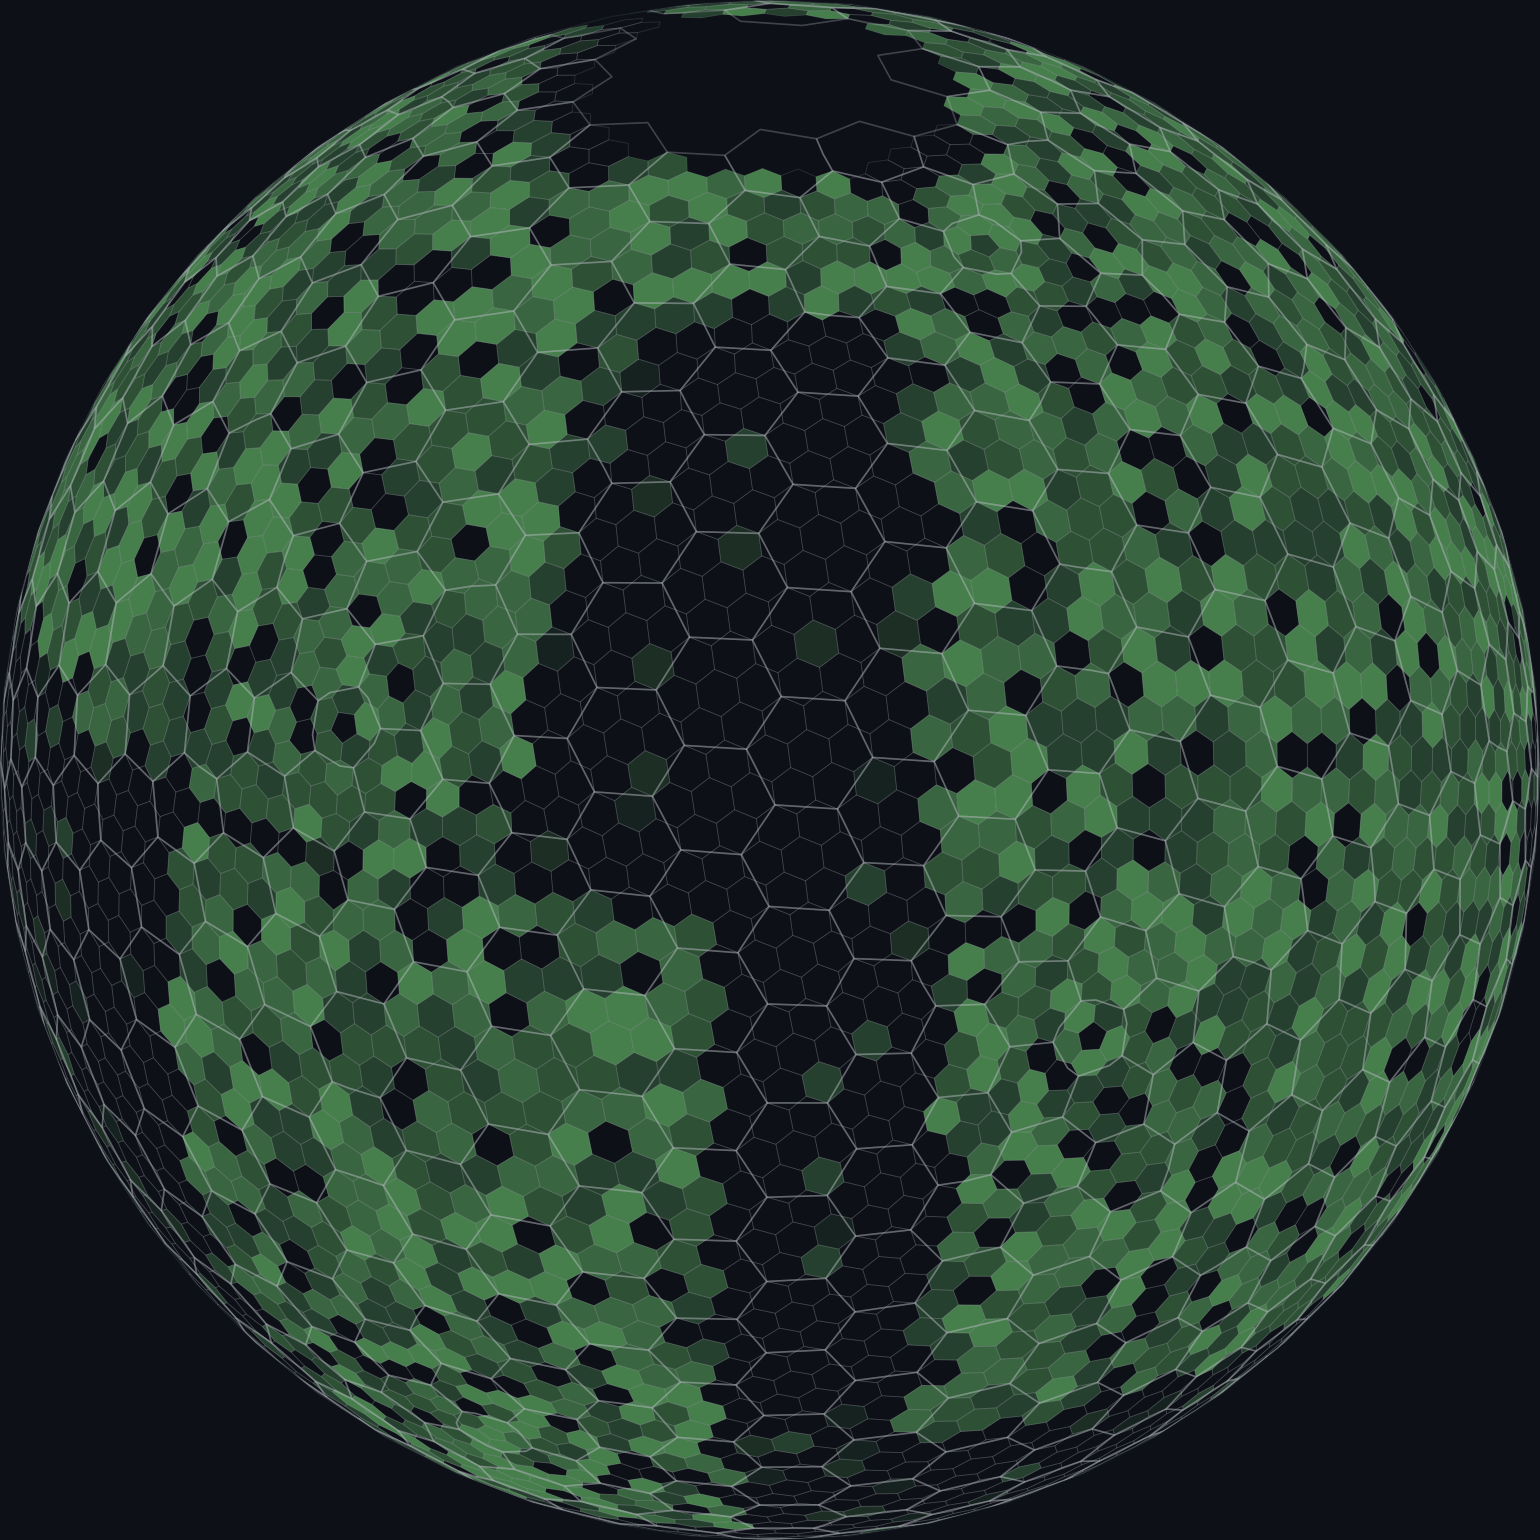
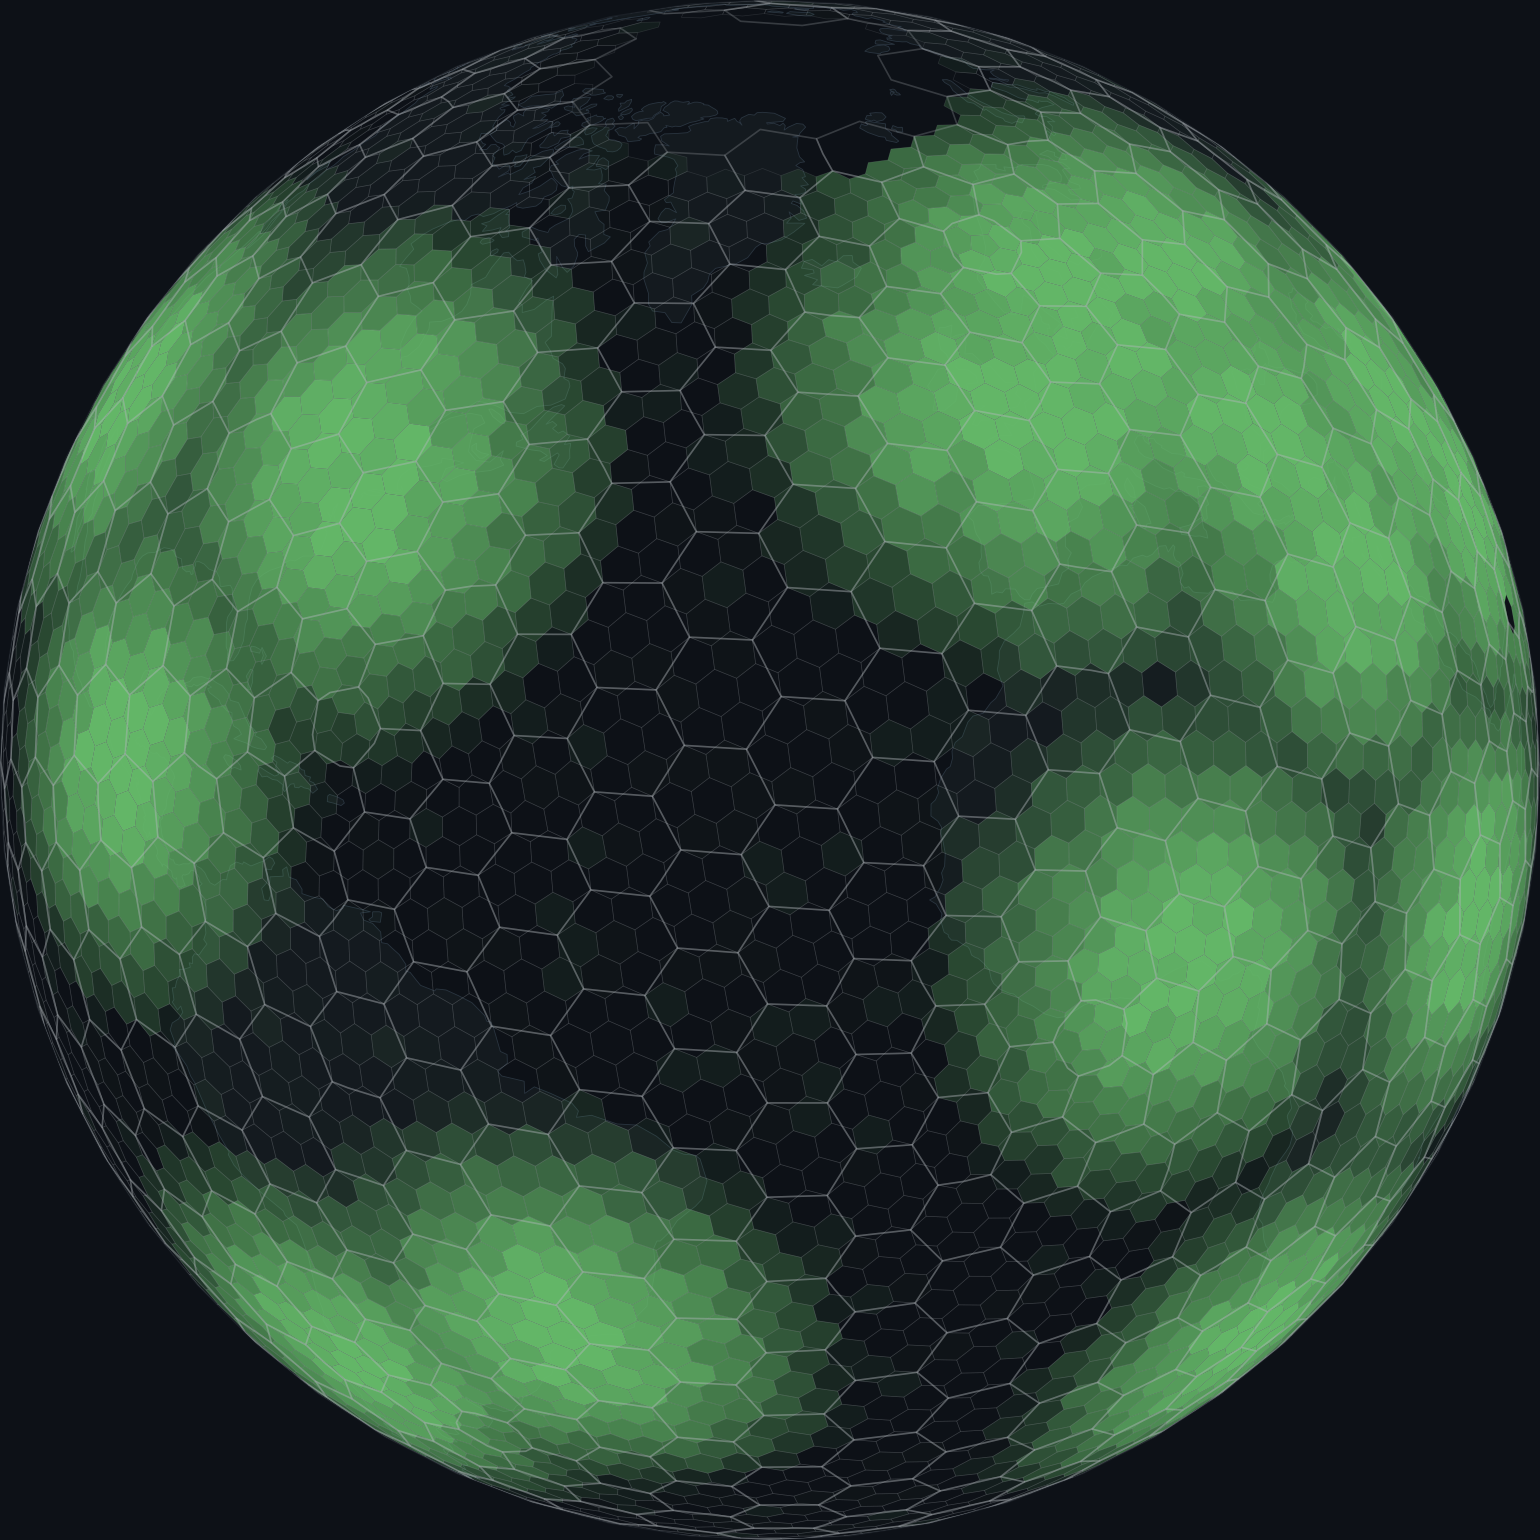
H3 globe: continental map, population-center radial spread
- Cartopy land/coastline base map beneath hex grid
- Green fill opacity 0-1 based on haversine distance to 28 major
  population centers (sharp 2500km falloff)
- Silver/gray hex borders at res 1 and res 2
- Mid-takeover look: bright hotspots at cities, dark ocean gaps

diff --git a/scripts/h3_globe.py b/scripts/h3_globe.py
@@ -1,83 +1,117 @@
 #!/usr/bin/env python3
 """Generate an H3 hexagonal globe visualization — mid-takeover look.
 
-Silver/gray hex borders across the whole globe, with randomly filled
-green hexagons at varying opacity (land cells more likely, some ocean
-cells lit for a spreading-takeover effect). Uses matplotlib + cartopy
-for proper polygon fills on an orthographic projection.
+Continental map underneath, silver/gray hex borders, green fills radiating
+outward from major population centers (opacity 0-1). Uses matplotlib + cartopy.
 """
 
 import h3
 import numpy as np
 import matplotlib.pyplot as plt
-import matplotlib.patches as mpatches
 from matplotlib.collections import PolyCollection
 import cartopy.crs as ccrs
+import cartopy.feature as cfeature
 from pathlib import Path
-import random
 
 BG_COLOR = '#0d1117'
+LAND_COLOR = '#141a1f'
+OCEAN_COLOR = '#0d1117'
 OUTPUT_DIR = Path(__file__).parent.parent / 'book' / 'assets' / 'figures'
 
-random.seed(42)
 np.random.seed(42)
 
 PROJ = ccrs.Orthographic(central_longitude=-30, central_latitude=25)
 SRC = ccrs.PlateCarree()
 
+# Major population centers (lat, lon) — takeover radiates from these
+POP_CENTERS = [
+    (40.7, -74.0),    # New York
+    (51.5, -0.1),     # London
+    (48.9, 2.3),      # Paris
+    (55.8, 37.6),     # Moscow
+    (35.7, 139.7),    # Tokyo
+    (39.9, 116.4),    # Beijing
+    (31.2, 121.5),    # Shanghai
+    (19.1, 72.9),     # Mumbai
+    (28.6, 77.2),     # Delhi
+    (-23.6, -46.6),   # São Paulo
+    (6.5, 3.4),       # Lagos
+    (30.0, 31.2),     # Cairo
+    (-33.9, 18.4),    # Cape Town
+    (34.1, -118.2),   # Los Angeles
+    (-33.4, -70.7),   # Santiago
+    (1.3, 103.8),     # Singapore
+    (37.6, 127.0),    # Seoul
+    (52.5, 13.4),     # Berlin
+    (41.0, 28.9),     # Istanbul
+    (13.8, 100.5),    # Bangkok
+    (-6.2, 106.8),    # Jakarta
+    (35.7, 51.4),     # Tehran
+    (14.6, -90.5),    # Guatemala City
+    (25.3, 55.3),     # Dubai
+    (-1.3, 36.8),     # Nairobi
+    (43.7, -79.4),    # Toronto
+    (59.3, 18.1),     # Stockholm
+    (22.3, 114.2),    # Hong Kong
+]
 
-def is_land(lat, lon):
-    """Rough land detection using continental bounding boxes."""
-    regions = [
-        (15, 72, -170, -50),   # North America
-        (-56, 13, -82, -34),   # South America
-        (35, 72, -12, 45),     # Europe
-        (-35, 37, -18, 52),    # Africa
-        (5, 75, 45, 180),      # Asia (east)
-        (-45, -10, 112, 155),  # Australia
-        (5, 35, 68, 98),       # India/SE Asia
-        (30, 46, 128, 146),    # Japan/Korea
-        (-8, 6, 95, 141),      # Indonesia
-        (12, 42, 32, 63),      # Middle East
-        (60, 84, -73, -12),    # Greenland
-    ]
-    for lat_lo, lat_hi, lon_lo, lon_hi in regions:
-        if lat_lo < lat < lat_hi and lon_lo < lon < lon_hi:
-            return True
-    return False
+EARTH_RADIUS_KM = 6371.0
+
+
+def haversine_km(lat1, lon1, lat2, lon2):
+    """Great-circle distance in km between two points."""
+    lat1, lon1, lat2, lon2 = map(np.radians, [lat1, lon1, lat2, lon2])
+    dlat = lat2 - lat1
+    dlon = lon2 - lon1
+    a = np.sin(dlat / 2)**2 + np.cos(lat1) * np.cos(lat2) * np.sin(dlon / 2)**2
+    return EARTH_RADIUS_KM * 2 * np.arcsin(np.sqrt(a))
+
+
+def distance_to_nearest_center(lat, lon):
+    """Min great-circle distance from (lat,lon) to any population center."""
+    dists = [haversine_km(lat, lon, clat, clon) for clat, clon in POP_CENTERS]
+    return min(dists)
+
+
+def opacity_from_distance(dist_km):
+    """Map distance to opacity: near centers = 1.0, far = 0.0.
+    Sharp falloff over ~2500 km with slight noise for organic feel."""
+    MAX_DIST = 2500.0
+    base = max(0.0, 1.0 - (dist_km / MAX_DIST) ** 1.8)
+    noise = np.random.uniform(-0.06, 0.06)
+    return float(np.clip(base + noise, 0.0, 1.0))
 
 
 def collect_cells(res, step):
-    """Collect H3 cells at given resolution, classified as land or ocean."""
-    land_cells = set()
-    ocean_cells = set()
+    """Collect all H3 cells at given resolution."""
+    cells = set()
     for lat in np.arange(-70, 75, step):
         for lon in np.arange(-180, 180, step):
-            cell = h3.latlng_to_cell(lat, lon, res)
-            if is_land(lat, lon):
-                land_cells.add(cell)
-            else:
-                ocean_cells.add(cell)
-    ocean_cells -= land_cells
-    return land_cells, ocean_cells
+            cells.add(h3.latlng_to_cell(lat, lon, res))
+    return cells
 
 
 def cell_to_xy(cell):
     """Convert H3 cell boundary to projected x,y coordinates.
     Returns None if the cell is on the far side of the globe."""
     boundary = h3.cell_to_boundary(cell)
-    lons = [b[1] for b in boundary]
-    lats = [b[0] for b in boundary]
+    lons = np.array([b[1] for b in boundary])
+    lats = np.array([b[0] for b in boundary])
 
     # Skip cells that wrap around the antimeridian
-    if max(lons) - min(lons) > 180:
+    if lons.max() - lons.min() > 180:
         return None
 
-    coords = PROJ.transform_points(SRC, np.array(lons), np.array(lats))
-    # Filter out points at infinity (far side of globe)
+    coords = PROJ.transform_points(SRC, lons, lats)
     if np.any(np.isinf(coords[:, :2])):
         return None
     return coords[:, :2]
+
+
+def cell_center(cell):
+    """Return (lat, lon) of cell center."""
+    lat, lon = h3.cell_to_latlng(cell)
+    return lat, lon
 
 
 def generate_globe():
@@ -85,50 +119,45 @@ def generate_globe():
     ax = fig.add_subplot(1, 1, 1, projection=PROJ, facecolor=BG_COLOR)
     ax.set_global()
 
-    # Subtle globe outline
+    # Globe outline
     ax.spines['geo'].set_edgecolor('#1a1f26')
     ax.spines['geo'].set_linewidth(0.5)
 
+    # --- Continental map underneath ---
+    ax.add_feature(cfeature.OCEAN, facecolor=OCEAN_COLOR, zorder=0)
+    ax.add_feature(cfeature.LAND, facecolor=LAND_COLOR, edgecolor='none', zorder=1)
+    ax.add_feature(cfeature.COASTLINE, edgecolor='#2a3540', linewidth=0.3, zorder=1)
+
     # --- Collect cells ---
-    land1, ocean1 = collect_cells(res=1, step=4)
-    land2, ocean2 = collect_cells(res=2, step=2)
+    all_res1 = collect_cells(res=1, step=4)
+    all_res2 = collect_cells(res=2, step=2)
 
-    all_res1 = land1 | ocean1
-    all_res2 = land2 | ocean2
+    print(f"  Res 1: {len(all_res1)} cells")
+    print(f"  Res 2: {len(all_res2)} cells")
 
-    print(f"  Res 1: {len(land1)} land, {len(ocean1)} ocean = {len(all_res1)} total")
-    print(f"  Res 2: {len(land2)} land, {len(ocean2)} ocean = {len(all_res2)} total")
+    # --- Green fills at res 2, opacity based on distance to pop centers ---
+    # Quantize opacity to ~20 buckets for rendering efficiency
+    NBUCKETS = 20
+    fill_buckets = {}  # bucket_index -> list of xy arrays
 
-    # --- Green fills at res 2 (mid-takeover) ---
-    fill_levels = [0.10, 0.18, 0.28, 0.38, 0.50, 0.65]
+    for cell in all_res2:
+        xy = cell_to_xy(cell)
+        if xy is None:
+            continue
+        lat, lon = cell_center(cell)
+        dist = distance_to_nearest_center(lat, lon)
+        opacity = opacity_from_distance(dist)
+        if opacity < 0.02:
+            continue  # skip near-invisible cells
+        bucket = int(opacity * NBUCKETS)
+        bucket = min(bucket, NBUCKETS - 1)
+        fill_buckets.setdefault(bucket, []).append(xy)
 
-    # Land fills: 85% chance, higher opacity
-    land_polys = {}  # opacity -> list of xy arrays
-    for cell in land2:
-        if random.random() < 0.85:
-            opacity = random.choice(fill_levels[2:])  # 0.28-0.65
-            xy = cell_to_xy(cell)
-            if xy is not None:
-                land_polys.setdefault(opacity, []).append(xy)
-
-    # Ocean fills: 12% chance, lower opacity
-    ocean_polys = {}
-    for cell in ocean2:
-        if random.random() < 0.12:
-            opacity = random.choice(fill_levels[:3])  # 0.10-0.28
-            xy = cell_to_xy(cell)
-            if xy is not None:
-                ocean_polys.setdefault(opacity, []).append(xy)
-
-    # Render fills as PolyCollections (efficient)
-    for opacity, polys in sorted({**land_polys, **ocean_polys}.items()):
-        # Merge polys from land and ocean at same opacity
-        all_at_level = polys
-        if opacity in land_polys and opacity in ocean_polys:
-            all_at_level = land_polys.get(opacity, []) + ocean_polys.get(opacity, [])
+    for bucket, polys in sorted(fill_buckets.items()):
+        opacity = (bucket + 0.5) / NBUCKETS
         pc = PolyCollection(
-            all_at_level,
-            facecolors=[(102/255, 187/255, 106/255, opacity)],
+            polys,
+            facecolors=[(102 / 255, 187 / 255, 106 / 255, opacity)],
             edgecolors='none',
             zorder=2,
         )
@@ -136,38 +165,26 @@ def generate_globe():
 
     # --- Silver/gray borders ---
     # Res 1 borders (large hexagons)
-    res1_polys = []
-    for cell in all_res1:
-        xy = cell_to_xy(cell)
-        if xy is not None:
-            res1_polys.append(xy)
-
+    res1_polys = [xy for cell in all_res1 if (xy := cell_to_xy(cell)) is not None]
     if res1_polys:
-        pc1 = PolyCollection(
+        ax.add_collection(PolyCollection(
             res1_polys,
             facecolors='none',
-            edgecolors=(180/255, 185/255, 190/255, 0.30),
+            edgecolors=(180 / 255, 185 / 255, 190 / 255, 0.25),
             linewidths=0.6,
             zorder=3,
-        )
-        ax.add_collection(pc1)
+        ))
 
     # Res 2 borders (medium hexagons)
-    res2_polys = []
-    for cell in all_res2:
-        xy = cell_to_xy(cell)
-        if xy is not None:
-            res2_polys.append(xy)
-
+    res2_polys = [xy for cell in all_res2 if (xy := cell_to_xy(cell)) is not None]
     if res2_polys:
-        pc2 = PolyCollection(
+        ax.add_collection(PolyCollection(
             res2_polys,
             facecolors='none',
-            edgecolors=(180/255, 185/255, 190/255, 0.18),
-            linewidths=0.3,
+            edgecolors=(180 / 255, 185 / 255, 190 / 255, 0.15),
+            linewidths=0.25,
             zorder=4,
-        )
-        ax.add_collection(pc2)
+        ))
 
     # --- Save ---
     output_path = OUTPUT_DIR / 'h3_globe.png'
